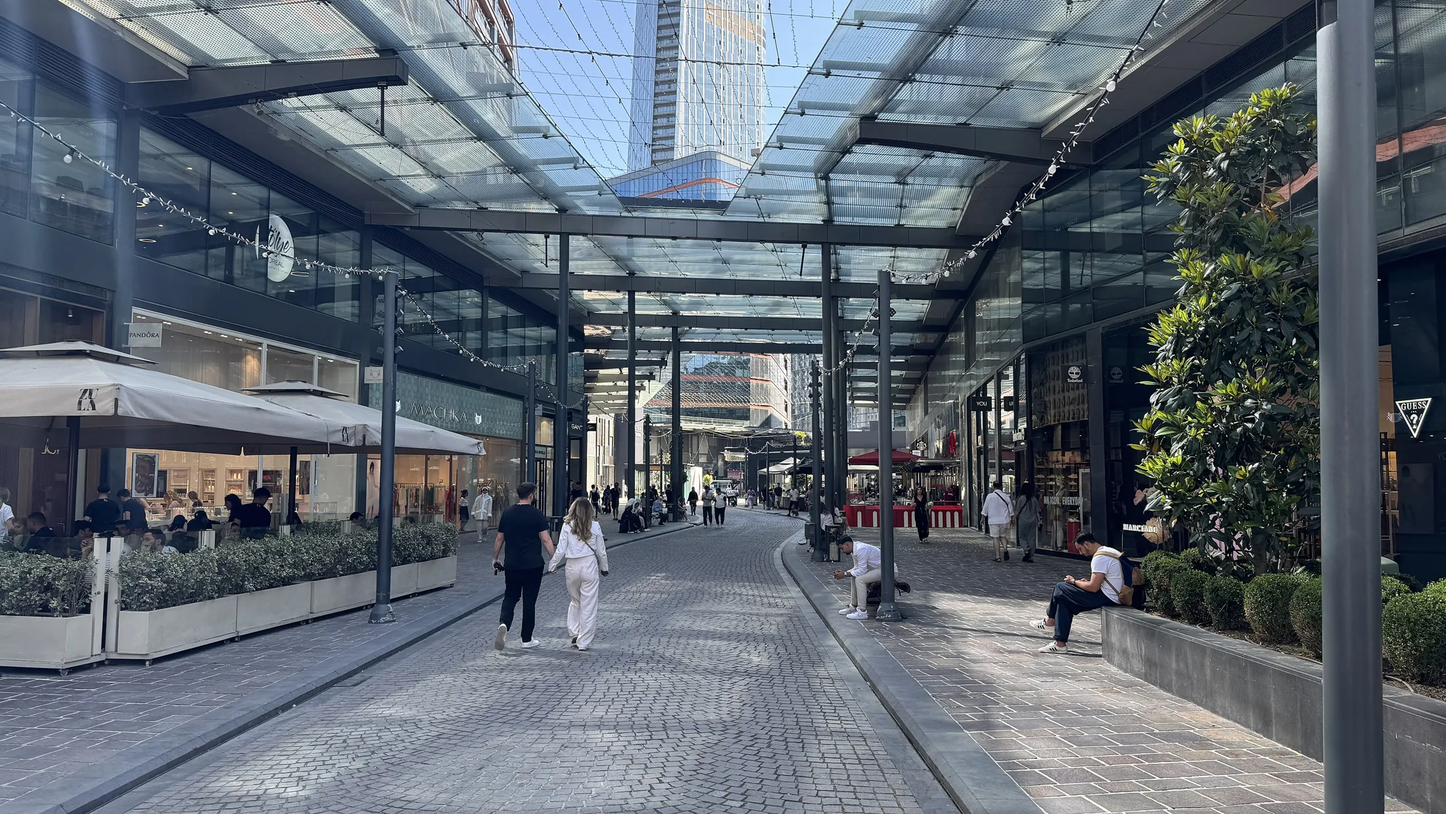
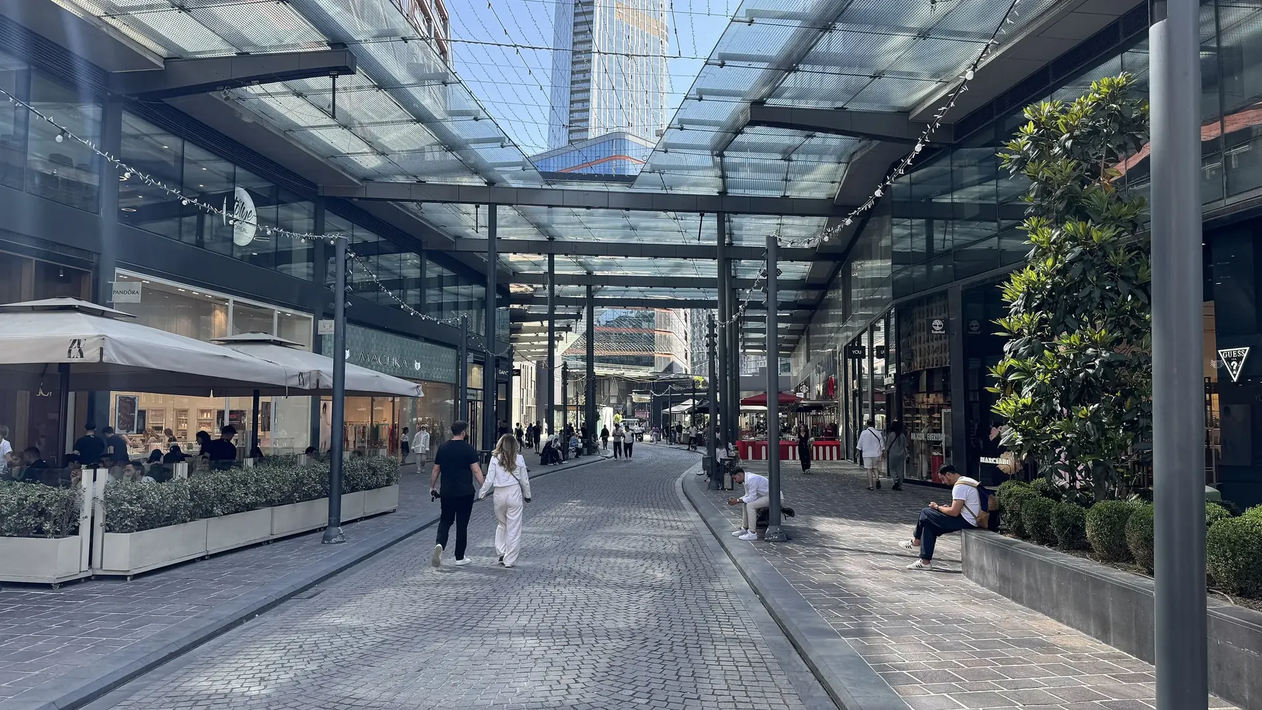
Speed up pages, tidy SEO, fix nav highlight for İş Bitirme
- Homepage hero loads only the first slide up front; hero, featured
  project, service hero and certificate images get smaller variants
- Preload the Archivo font files so headings don't shift; drop unused
  Caveat/Syne/Questrial fonts
- Splash closes once the page has loaded (1.3-2s instead of a fixed 2s)
- Meta descriptions: expand the short ones, trim long ones at 160 chars
- Darker orange for small text on light backgrounds (contrast)
- Projects stats use a valid dt/dd order
- .htaccess: one-month cache for images/PDFs, a year only for /_astro
- Header: İş Bitirme (under Kurumsal) no longer also highlights Projeler

diff --git a/src/styles/tokens.css b/src/styles/tokens.css
@@ -13,6 +13,7 @@
   --color-on-dark-muted: #bcbec2;
   --color-orange: #f5a21b;
   --color-orange-dark: #e08e0b; /* hover for orange buttons */ /* accent + conversion CTAs (Teklif Al); always with navy-deep text */
+  --color-orange-text: #a86400; /* orange for text on light backgrounds (4.7:1 on white) */
   --color-border-strong: #c3ccd3;
   --color-error: #b3261e;
   --color-success: #1f7a4d;
@@ -20,8 +21,6 @@
   /* Typography */
   --font-body: 'Archivo Variable', 'Archivo', sans-serif;
   --font-heading: 'Archivo Variable', 'Archivo', sans-serif;
-  --font-accent: 'Syne', sans-serif; /* SAYDA logotype only */
-  --font-script: 'Caveat', cursive; /* handwritten quote accents */
   --font-display: 'Archivo Variable', 'Archivo', sans-serif; /* display type, homepage sections */
 
   --fs-h1: clamp(2.25rem, 4vw + 1rem, 4rem);

diff --git a/src/utils/image.ts b/src/utils/image.ts
@@ -1,0 +1,8 @@
+// Smaller copies live next to the original as `<name>-<width>.webp` (made once, offline).
+export function variant(src: string, width: number): string {
+  return src.replace(/\.webp$/, `-${width}.webp`);
+}
+
+export function srcset(src: string, smallWidth: number, fullWidth: number): string {
+  return `${variant(src, smallWidth)} ${smallWidth}w, ${src} ${fullWidth}w`;
+}

diff --git a/src/styles/global.css b/src/styles/global.css
@@ -3,13 +3,6 @@
 /* Archivo (variable weight 100-900 + width 62-125%, so font-weight and font-stretch both render) */
 @import '@fontsource-variable/archivo/wdth.css';
 
-/* Caveat (handwritten quote accents) */
-@import '@fontsource/caveat/400.css';
-
-/* Syne (SAYDA logotype only) */
-@import '@fontsource/syne/700.css';
-@import '@fontsource/syne/800.css';
-
 *,
 *::before,
 *::after {
